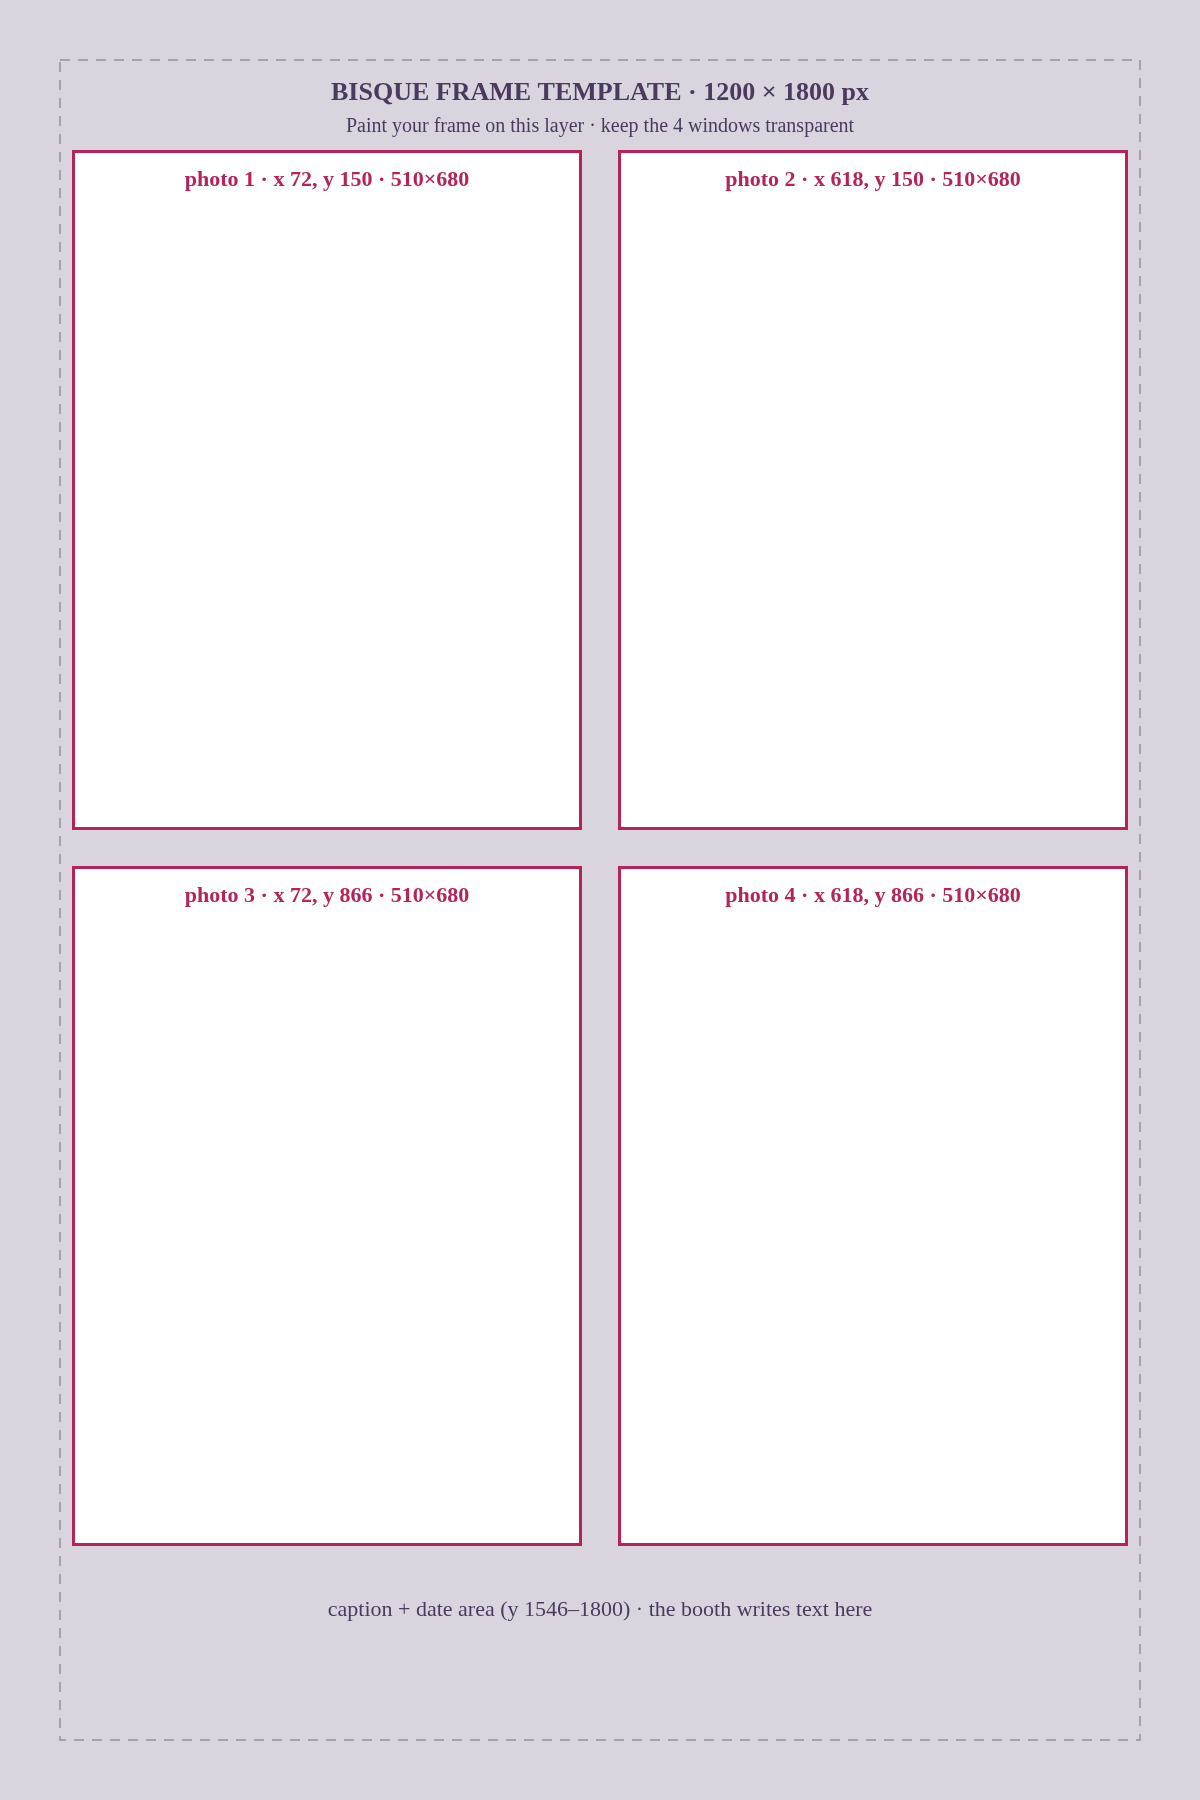
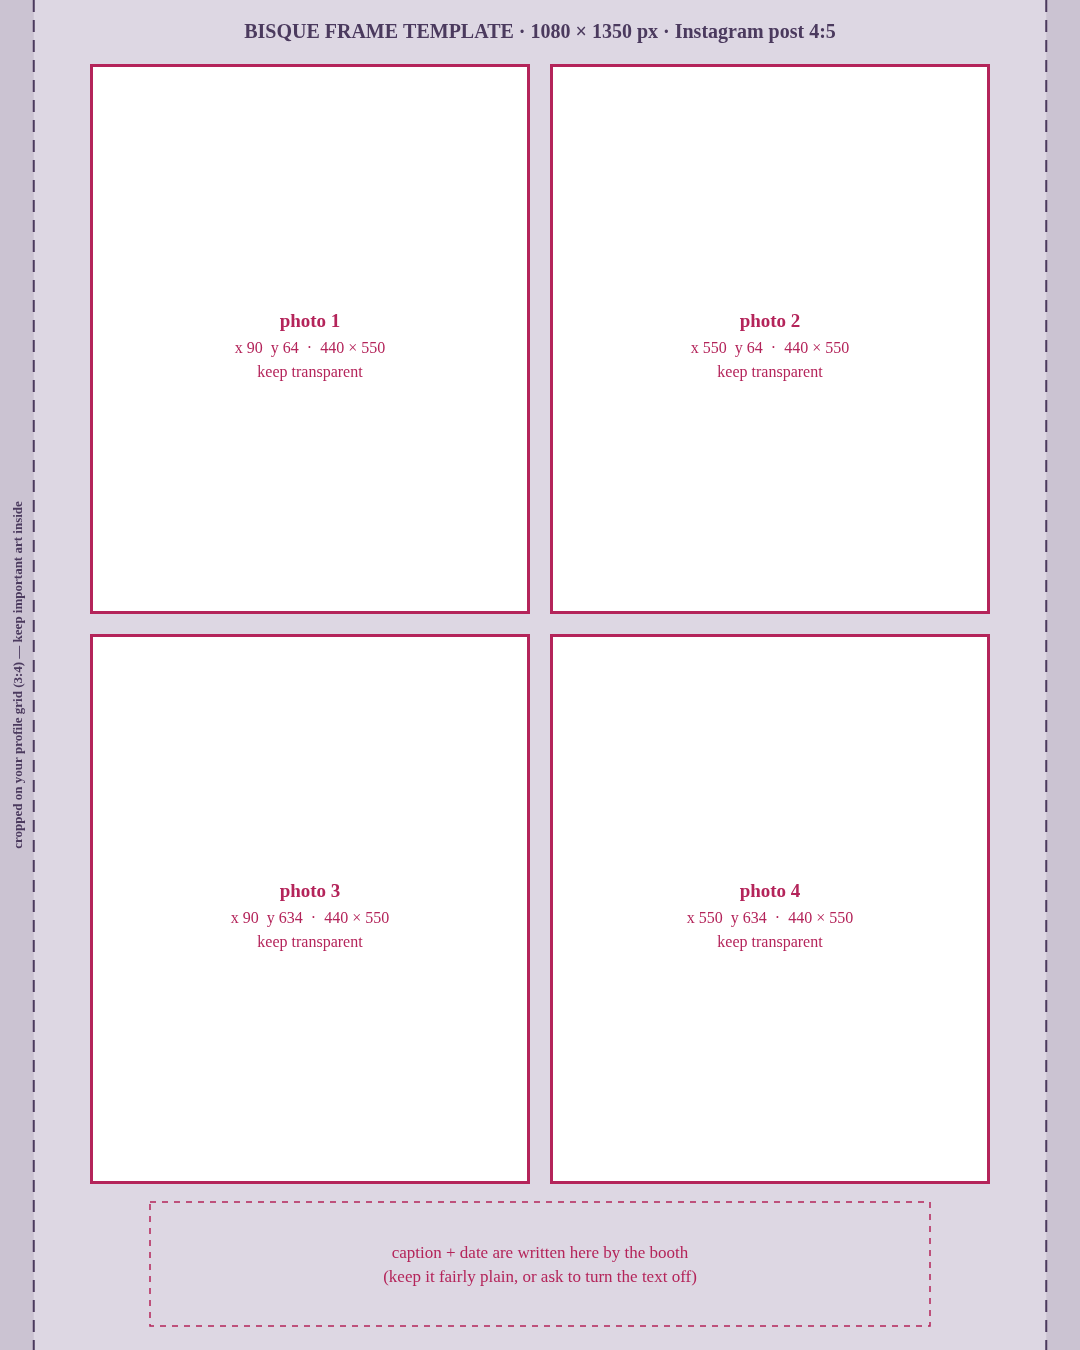
Size prints for Instagram posts (1080x1350, 4:5)
Four 4:5 photos in a 2x2 grid on a 1080x1350 canvas, with the camera,
thumbnails and crop all switched to 4:5. New frames/template.png marks
the photo windows, the caption area and the 3:4 profile-grid crop.

Claude-Session: https://claude.ai/code/session_01KAexMXHLSvYcFqbcQGgrYH

diff --git a/js/frames.js b/js/frames.js
@@ -1,8 +1,8 @@
 /* Print layout, the four themes and the strip renderer.
  *
- * Every print is a 1200×1800 (4×6 in at 300dpi) portrait card with four
- * 3:4 photos in a 2×2 grid. To use your own frame art, export a PNG at
- * exactly 1200×1800 with transparent holes over the slots (see
+ * Every print is a 1080×1350 Instagram portrait post (4:5) with four 4:5
+ * photos in a 2×2 grid. To use your own frame art, export a PNG at
+ * exactly 1080×1350 with transparent holes over the slots (see
  * frames/template.png) and set `overlay` on the theme below. Until the
  * file exists, a drawn placeholder is used instead. */
 window.KB = window.KB || {};
@@ -12,8 +12,8 @@ window.KB = window.KB || {};
   const { pearl, drawSticker, heartPath } = KB;
 
   const PRINT = (() => {
-    const w = 1200, h = 1800;
-    const pw = 510, ph = 680, gap = 36, top = 150;
+    const w = 1080, h = 1350;
+    const pw = 440, ph = 550, gap = 20, top = 64;
     const x0 = (w - pw * 2 - gap) / 2;
     const slots = [];
     for (let r = 0; r < 2; r++)
@@ -21,7 +21,7 @@ window.KB = window.KB || {};
         slots.push({ x: x0 + c * (pw + gap), y: top + r * (ph + gap), w: pw, h: ph });
     return { w, h, slots, footerY: top + ph * 2 + gap };
   })();
-  const PHOTO_ASPECT = 3 / 4; // width / height of each photo
+  const PHOTO_ASPECT = 4 / 5; // width / height of each photo
 
   // Placeholder themes: rename them and add your overlay PNGs when ready.
   const THEMES = {
@@ -157,14 +157,10 @@ window.KB = window.KB || {};
   }
 
   function drawGarland(c, W) {
-    const y = 44, x0 = 150, x1 = W - 150, n = 4;
+    const y = 32, x0 = 110, x1 = W - 110, n = 4;
     const seg = (x1 - x0) / n;
-    for (let i = 0; i < n; i++) pearlSwag(c, x0 + seg * i, x0 + seg * (i + 1), y, 16, 4.2);
-    for (let i = 0; i <= n; i++) {
-      const x = x0 + seg * i;
-      pearl(c, x, y, 7);
-      pearl(c, x, y + 15, 4.6);
-    }
+    for (let i = 0; i < n; i++) pearlSwag(c, x0 + seg * i, x0 + seg * (i + 1), y, 6, 3.4);
+    for (let i = 0; i <= n; i++) pearl(c, x0 + seg * i, y, 5.5);
   }
 
   /* ───────── filigree scrollwork (drawn for a top-left corner) ───────── */
@@ -261,17 +257,17 @@ window.KB = window.KB || {};
     c.textAlign = 'center';
     const caption = (o.caption || '').trim() || 'Bisque';
     c.fillStyle = t.ink;
-    let size = 118;
+    let size = 84;
     do {
       c.font = `${size}px "Mea Culpa", "Pinyon Script", cursive`;
       size -= 4;
-    } while (c.measureText(caption).width > PRINT.w - 260 && size > 30);
-    c.fillText(caption, cx, y0 + 128);
+    } while (c.measureText(caption).width > PRINT.w - 240 && size > 30);
+    c.fillText(caption, cx, y0 + 78);
     c.fillStyle = t.sub;
-    c.font = '22px "Shippori Mincho", serif';
+    c.font = '19px "Shippori Mincho", serif';
     const parts = ['人形写真館'];
     if (o.showDate) parts.push(formatDate(o.date || new Date()));
-    c.fillText(parts.join('  ·  '), cx, y0 + 206);
+    c.fillText(parts.join('  ·  '), cx, y0 + 122);
     c.restore();
   }
 
@@ -303,15 +299,15 @@ window.KB = window.KB || {};
       drawLace(c, t, W, H);
       drawGarland(c, W);
       c.save();
-      c.translate(W / 2, 92);
-      drawSticker(c, 'bow', 110, { fill: t.bg, edge: t.lace });
+      c.translate(W / 2, 46);
+      drawSticker(c, 'bow', 74, { fill: t.bg, edge: t.lace });
       c.restore();
       c.save();
       c.fillStyle = t.sub;
       c.globalAlpha = 0.7;
       c.textAlign = 'left';
-      c.font = '600 18px "Cinzel", Georgia, serif';
-      c.fillText(`${t.name.toUpperCase()} · PLACEHOLDER`, 48, 112);
+      c.font = '600 13px "Cinzel", Georgia, serif';
+      c.fillText(`${t.name.toUpperCase()} · PLACEHOLDER`, 44, H - 42);
       c.restore();
     }
 

diff --git a/js/app.js b/js/app.js
@@ -199,8 +199,8 @@
         b.classList.add('has-shot');
         b.setAttribute('aria-label', `Retake photo ${i + 1}`);
         const cv = document.createElement('canvas');
-        cv.width = 180; cv.height = 240;
-        cv.getContext('2d').drawImage(shot, 0, 0, 180, 240);
+        cv.width = 192; cv.height = 240;
+        cv.getContext('2d').drawImage(shot, 0, 0, 192, 240);
         cv.style.filter = css;
         b.append(cv);
         b.addEventListener('click', () => {
@@ -414,7 +414,7 @@
       type,
       x: PRINT.w / 2 + (Math.random() - 0.5) * PRINT.w * 0.4,
       y: PRINT.h * (0.15 + Math.random() * 0.6),
-      size: Math.round(PRINT.w * 0.16),
+      size: Math.round(PRINT.w * 0.15),
       rot: Math.round((Math.random() - 0.5) * 30),
     });
     state.selected = state.stickers.length - 1;
@@ -523,7 +523,7 @@
     renderStrip(out, printOptions(-1));
     const d = new Date();
     const p = (n) => String(n).padStart(2, '0');
-    const name = `bisque-${d.getFullYear()}${p(d.getMonth() + 1)}${p(d.getDate())}-${p(d.getHours())}${p(d.getMinutes())}${p(d.getSeconds())}.png`;
+    const name = `bisque-ig-${d.getFullYear()}${p(d.getMonth() + 1)}${p(d.getDate())}-${p(d.getHours())}${p(d.getMinutes())}${p(d.getSeconds())}.png`;
     out.toBlob((blob) => {
       if (!blob) { toast('couldn’t save the print, sorry!'); return; }
       const url = URL.createObjectURL(blob);

diff --git a/index.html b/index.html
@@ -56,7 +56,7 @@
       <div class="panel">
         <p class="eyebrow">Chapter I · テーマをえらんでね</p>
         <h2 class="section-title">Select Theme</h2>
-        <p class="sub">Four poses, two on top and two on the bottom. Pick your frame, darling.</p>
+        <p class="sub">Four poses, two on top and two on the bottom, sized for an Instagram post. Pick your frame, darling.</p>
         <div class="pearl-row" aria-hidden="true"></div>
         <div id="theme-grid" class="theme-grid"></div>
         <div class="actions">
@@ -134,7 +134,7 @@
 
           <div class="control">
             <label class="control-label" for="caption">Caption <small>ひとこと</small></label>
-            <input id="caption" class="text-input" type="text" maxlength="24" autocomplete="off">
+            <input id="caption" class="text-input" type="text" maxlength="22" autocomplete="off">
             <label class="check"><input id="show-date" type="checkbox" checked> print today's date</label>
             <label class="check"><input id="show-stamp" type="checkbox"> digicam date stamp on photos</label>
           </div>

diff --git a/styles.css b/styles.css
@@ -445,7 +445,7 @@ main {
 .booth-main { padding: 40px 30px; }
 .viewfinder {
   position: relative;
-  aspect-ratio: 3 / 4;
+  aspect-ratio: 4 / 5;
   width: min(100%, 440px);
   margin: 18px auto 0;
   background: #000;
@@ -560,12 +560,12 @@ main {
 }
 .chip[aria-pressed="true"] small { color: var(--deep); }
 
-.tray-card { padding: 38px 24px 34px; position: sticky; top: 20px; }
+.tray-card { --fil-size: 40px; padding: 38px 24px 34px; position: sticky; top: 20px; }
 .tray-hint { margin: 0 0 16px; text-align: center; font-style: italic; color: var(--mist); font-size: 16px; }
 .tray { display: grid; grid-template-columns: 1fr 1fr; gap: 12px; margin-bottom: 26px; }
 .thumb {
   position: relative;
-  aspect-ratio: 3 / 4;
+  aspect-ratio: 4 / 5;
   max-width: 100%;
   padding: 0;
   border: 0;

diff --git a/frames/README.md b/frames/README.md
@@ -1,16 +1,26 @@
 # Theme frames
 
-Bisque has four themes, and each one shows a drawn placeholder until you add your own artwork.
+Bisque has four themes. Each one shows a drawn placeholder until you add your own artwork.
+Every print is an **Instagram portrait post: 1080 × 1350 px (4:5)**, with four 4:5 photos in a 2×2 grid.
 
 ## Making a frame
 
-1. Open `template.png` in your editor (Photoshop, Procreate, Canva…). It's **1200 × 1800 px**, which is a 4×6 in print at 300 dpi.
+1. Open `template.png` in your editor (Photoshop, Procreate, Canva, Ibis Paint…). It's 1080 × 1350 px.
 2. Design your frame on a layer above it. Keep the **four photo windows transparent**: the photos sit underneath your frame.
-3. The bottom strip (below the photos) is where the booth writes the caption and date. Leave it fairly plain, or tell Claude to turn the text off.
-4. Export a **PNG with transparency** at exactly 1200 × 1800 px.
-5. Save it here as `theme-1.png`, `theme-2.png`, `theme-3.png` or `theme-4.png`.
+   | photo | x | y | size |
+   |---|---|---|---|
+   | 1 | 90 | 64 | 440 × 550 |
+   | 2 | 550 | 64 | 440 × 550 |
+   | 3 | 90 | 634 | 440 × 550 |
+   | 4 | 550 | 634 | 440 × 550 |
+3. Instagram crops posts to 3:4 on your profile grid, which cuts 34 px off each side (the dashed lines).
+   The full post still shows when opened, but keep anything important inside the lines.
+4. The strip under the photos (from y 1184) is where the booth writes the caption and date. Leave it fairly plain, or ask Claude to turn the text off.
+5. Export a **PNG with transparency** at exactly 1080 × 1350 px. Hide or delete the template layer first.
+6. Save it here as `theme-1.png`, `theme-2.png`, `theme-3.png` or `theme-4.png`.
+   You can also upload the PNGs to Claude in chat and ask for them to be added.
 
-That's it! When a file exists, the booth uses it instead of the placeholder.
+When a file exists, the booth uses it instead of the placeholder.
 
 ## Renaming themes
 

diff --git a/README.md b/README.md
@@ -5,12 +5,12 @@ A dark gothic lolita photobooth that runs in your browser: think a 2000s game ti
 ## How it works
 
 1. **Title screen**: press START (or hit Enter).
-2. **Select Theme** (`#/themes`): pick one of four themes. Every print is a 4×6 card with four photos, two on top and two on the bottom.
+2. **Select Theme** (`#/themes`): pick one of four themes. Every print is a 1080×1350 Instagram post (4:5) with four photos, two on top and two on the bottom.
 3. **Shoot** (`#/booth`): choose a filter (Natural, Digicam, Faded, Monochrome, Lilac, Rosé, Dreamy) and a timer, then strike four poses.
    Tap a thumbnail to retake just that one, or upload photos instead of using the camera.
 4. **Print** (`#/result`): switch theme or filter, write a caption, add an orange digicam date stamp, add stickers
    (ribbons, hearts, crosses, cherries, teacups, shortcake, bats, red & lilac roses, crowns, candles, coffins, moons…) and drag them around.
-   Then download it as a 1200×1800 PNG.
+   Then download it as a 1080×1350 PNG, sized exactly for an Instagram post.
 
 Everything stays on your device. No photos are uploaded anywhere.
 
